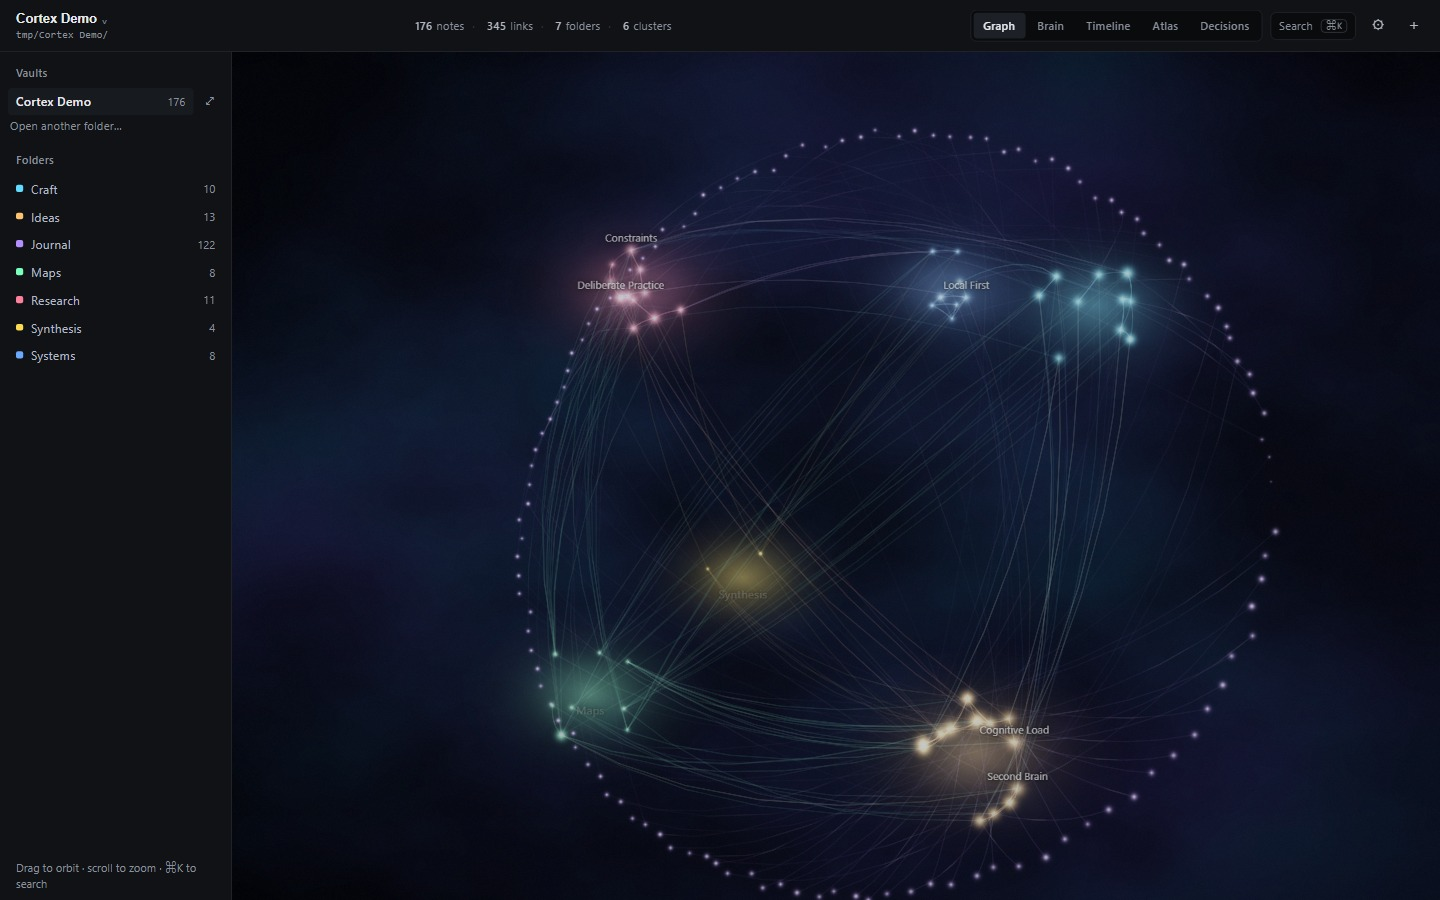
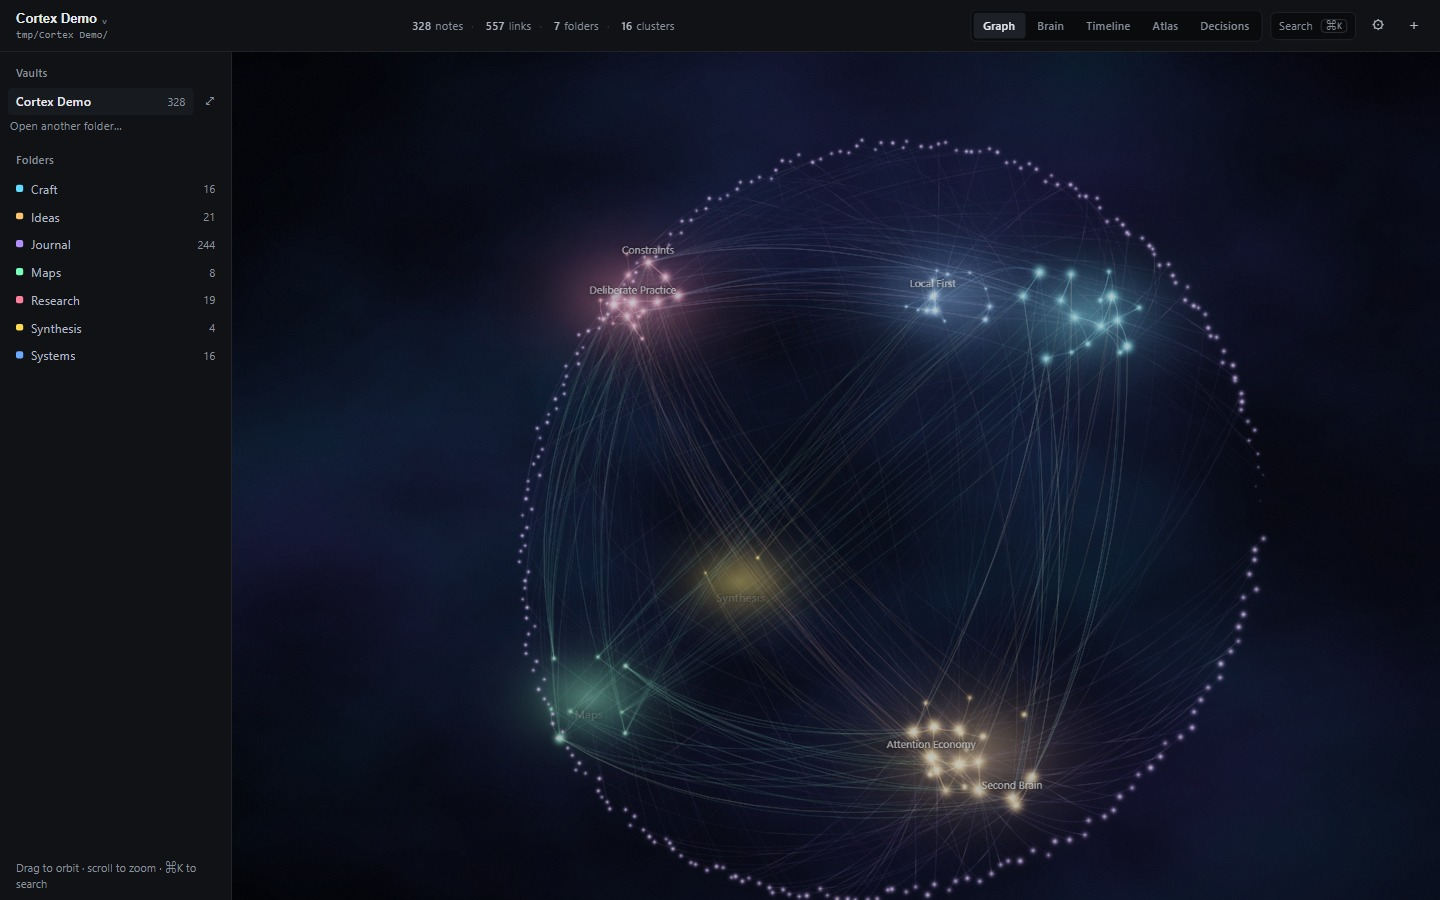
Refresh screenshots and counts for the bigger demo
New captures of all five views, 328-note references, and the mesh
attribution.

🤖 Generated with Codebuff

diff --git a/docs/ui-craft.md b/docs/ui-craft.md
@@ -58,17 +58,17 @@ name. `your notes as a universe` in the page title. A permanent instruction
 line at the bottom: `drag to orbit · scroll to zoom · ⌘K search · ⌘-click to
 collect for synthesis`.
 
-**Replace with:** `Indexing 174 notes…` (a fact, with a number, that ends when
+**Replace with:** `Indexing 328 notes…` (a fact, with a number, that ends when
 it is done). The vault's own folder path where the subtitle is. Discoverable
 hints behind `?`, shown in full only on a first run.
 
 ### 6. Space words on top of data
 
-`174 stars · 338 arcs · 7 galaxies · 6 clusters`. The graph *is* spatial; the
+`328 stars · 557 arcs · 7 galaxies · 16 clusters`. The graph *is* spatial; the
 chrome does not need to keep insisting on it. A tool reports what the data is,
 and lets the visual metaphor be the visual metaphor.
 
-**Replace with:** `174 notes · 338 links · 7 folders · 6 clusters`.
+**Replace with:** `328 notes · 557 links · 7 folders · 16 clusters`.
 
 ### 7. Contrast is below the floor
 
@@ -159,8 +159,8 @@ visible).
   history arrows, and the collection tray moved out of the canvas into the
   sidebar.
 - **The scene keeps the metaphor; the data does not.** Views are still called
-  Graph, Brain and Timeline. Counts read `174 notes · 338 links · 7 folders ·
-  6 clusters`, and the boot line counts notes instead of narrating a mood.
+  Graph, Brain and Timeline. Counts read `328 notes · 557 links · 7 folders ·
+  16 clusters`, and the boot line counts notes instead of narrating a mood.
 - **Notes open each other.** A `[[link]]`, a backlink or a mention opens in
   place, with back/forward through the chain (`⌘[` / `⌘]`). Split panes were
   considered and deliberately left out; the panel is the unit of reading.

diff --git a/README.md b/README.md
@@ -16,7 +16,7 @@ works as-is. No account, no cloud, no database.
 
 ## The five views
 
-The seeded demo vault, 176 notes — same graph, five ways to ask about it.
+The seeded demo vault, 328 notes — same graph, five ways to ask about it.
 
 | | |
 | --- | --- |
@@ -29,7 +29,7 @@ The seeded demo vault, 176 notes — same graph, five ways to ask about it.
 
 ```bash
 cargo run -p cortex                       # reopens the last vault, or offers a picker
-cargo run -p cortex -- seed-demo demo     # optional: a 174-note example vault
+cargo run -p cortex -- seed-demo demo     # optional: a 328-note example vault
 cargo run -p cortex -- serve demo         # open one folder directly
 ```
 
@@ -331,3 +331,10 @@ in [`docs/research-workflows.md`](docs/research-workflows.md).
 `crates/server` is axum plus the embedded `web/` UI, which is hand-written
 WebGL2 with no build step. CI runs the checks on Linux, macOS and Windows and
 publishes the static export to GitHub Pages.
+
+## Credits
+
+The Brain view's cortical surface is a simplified version of the
+[Detailed Human Brain Model](https://3d.nih.gov/entries/3DPX-021161) from NIH 3D
+(Johnson J), used under [CC BY 4.0](https://creativecommons.org/licenses/by/4.0/).
+It was reduced from 377,701 to 20,018 triangles for the renderer.

diff --git a/docs/adr/0002-atlas-mode.md b/docs/adr/0002-atlas-mode.md
@@ -43,7 +43,7 @@ stroked as a dashed wall. Inside the wall, the wilderness is cleared.
 **Roads are bucketed by width.** Every link becomes a meandering road, and the
 width is `0.8 + log2(1 + weight) * 0.55`, so link count is visible as thickness
 rather than as a number. Roads are grouped into one `Path2D` per quarter-unit
-width: 338 links cost a dozen strokes, not 338. Links *inside* a settlement are
+width: 557 links cost a dozen strokes, not 557. Links *inside* a settlement are
 not drawn — at country scale they turn a clump of notes into a sunburst, and
 the clump already reads as a town.
 

diff --git a/AGENTS.md b/AGENTS.md
@@ -10,7 +10,7 @@ way they are.
 cargo test --workspace --all-targets     # 95+ tests, fast
 cargo clippy --workspace --all-targets -- -D warnings
 cargo fmt --all -- --check
-cargo run -q -p cortex -- seed-demo demo # deterministic 174-note vault
+cargo run -q -p cortex -- seed-demo demo # deterministic 328-note vault
 cargo run -q -p cortex -- serve demo --open
 cargo run -q -p cortex -- export demo --out dist
 cargo run -q -p cortex -- mcp demo       # MCP server on stdio
